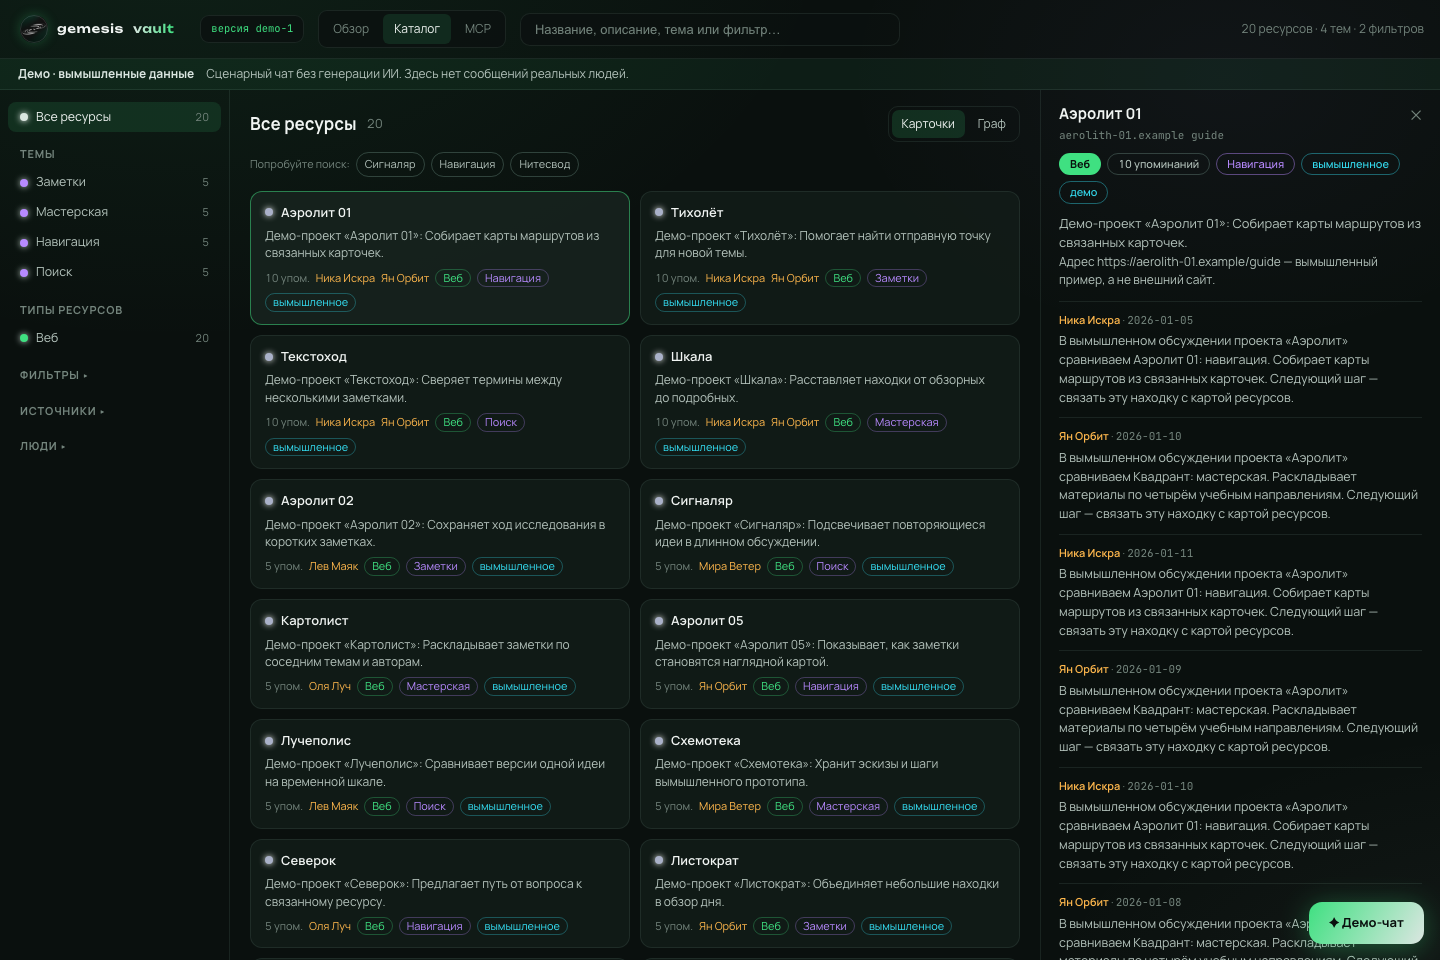
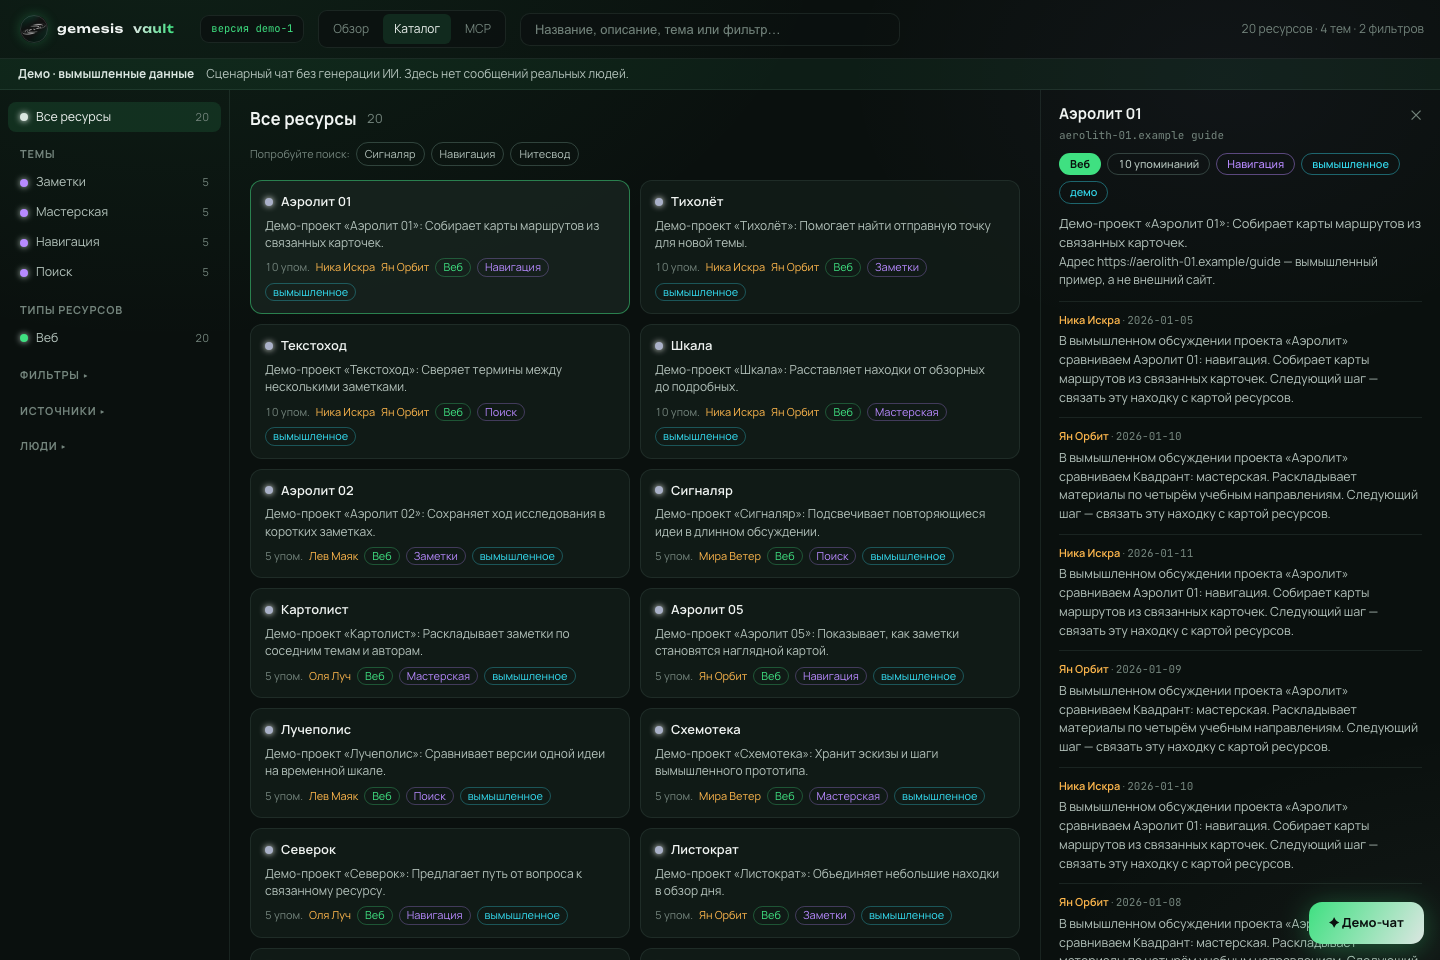
Keep only resource cards and explain full-product AI chat

diff --git a/app/src/styles.css b/app/src/styles.css
@@ -443,34 +443,9 @@ button.brand:active { transform: translateY(1px); }
 }
 .cards-head h1 { font-size: 17px; font-weight: 700; }
 .cards-head .count { color: var(--star-faint); font-size: 13px; font-variant-numeric: tabular-nums; }
-.catalog-view-switch { display: flex; gap: 3px; padding: 3px; margin-left: auto; border: 1px solid var(--line); border-radius: 10px; }
-.catalog-view-switch button { padding: 5px 10px; border: 0; border-radius: 7px; background: transparent; color: var(--star-dim); cursor: pointer; font-size: 12px; }
-.catalog-view-switch button[aria-pressed="true"] { color: var(--star); background: rgba(63, 224, 129, 0.15); }
-.catalog-view-switch button:focus-visible { outline: 2px solid var(--brand-c); outline-offset: 2px; }
 .catalog-examples { display: flex; flex-wrap: wrap; align-items: center; gap: 6px; padding: 0 20px 10px; color: var(--star-faint); font-size: 11px; }
 .catalog-examples button { padding: 3px 8px; border: 1px solid var(--line-strong); border-radius: 999px; background: transparent; color: var(--star-dim); cursor: pointer; font-size: 11px; }
 .catalog-examples button:hover, .catalog-examples button:focus-visible { color: var(--brand-c); border-color: var(--brand-c); }
-.graph-shell { flex: 1; min-height: 0; overflow-y: auto; padding: 8px 20px 60px; }
-.graph-caption, .graph-footnote, .graph-empty { color: var(--star-dim); font-size: 12px; line-height: 1.5; }
-.graph-caption { margin-bottom: 12px; }
-.graph-footnote { margin-top: 12px; }
-.graph-empty { padding: 30px 20px; }
-.graph-legend-hub, .graph-legend-resource { display: inline-block; vertical-align: middle; width: 9px; height: 9px; margin-inline: 4px; border-radius: 50%; }
-.graph-legend-hub { background: var(--pulse); }
-.graph-legend-resource { background: var(--brand-c); }
-.graph-scroll { overflow-x: auto; border: 1px solid var(--line); border-radius: 16px; background: radial-gradient(circle at 50% 40%, rgba(63,224,129,0.07), transparent 65%), var(--panel-2); }
-.graph-scroll:focus-visible { outline: 2px solid var(--brand-c); outline-offset: 2px; }
-.resource-graph { display: block; width: 100%; min-width: 720px; height: auto; }
-.graph-link-topic { stroke: rgba(183,138,255,0.34); stroke-width: 1.7; }
-.graph-link-cooccur { stroke: rgba(63,224,129,0.28); stroke-width: 1.3; stroke-dasharray: 5 6; }
-.graph-topic circle { fill: #231b30; stroke: var(--pulse); stroke-width: 1.5; }
-.graph-topic text { fill: #e9d7ff; font-size: 14px; font-weight: 600; }
-.graph-resource { cursor: pointer; }
-.graph-resource circle { fill: #123529; stroke: var(--brand-c); stroke-width: 2; transition: fill 150ms ease-out; }
-.graph-resource text { fill: var(--silver); font-size: 12px; font-weight: 600; }
-.graph-resource:hover circle, .graph-resource:focus-visible circle, .graph-resource.active circle { fill: var(--brand-c); }
-.graph-resource:focus-visible { outline: none; }
-.graph-resource:focus-visible text, .graph-resource.active text { fill: var(--brand-c); }
 .cards {
   flex: 1; overflow-y: auto; padding: 4px 20px 80px;
   display: grid; grid-template-columns: repeat(auto-fill, minmax(290px, 1fr));
@@ -845,11 +820,23 @@ button.chip { cursor: pointer; }
   .mcp-key-field { grid-template-columns: 1fr 1fr; }
   .mcp-key-field input { grid-column: 1 / -1; }
   .mcp-step { grid-template-columns: 28px minmax(0, 1fr); padding: 14px; }
-  .columns.graph-open:not(.detail-open) .sidebar { display: none; }
+  .columns { flex-direction: column; }
+  .sidebar {
+    display: flex; align-items: center; gap: 5px; width: 100%; height: 54px;
+    overflow-x: auto; overflow-y: hidden; padding: 5px 12px;
+    border-right: none; border-bottom: 1px solid var(--line);
+  }
+  .sidebar .nav-head:not(.toggle) { display: none; }
+  .sidebar .nav-item { width: auto; min-height: 40px; flex: none; white-space: nowrap; padding-inline: 10px; }
+  .sidebar .nav-head.toggle {
+    width: auto; min-height: 40px; flex: none; padding: 8px 10px;
+    white-space: nowrap; border: 1px solid var(--line); border-radius: 8px;
+  }
+  .cards-col { width: 100%; min-height: 0; }
+  .cards-head, .catalog-examples { padding-inline: 14px; }
+  .cards { grid-template-columns: minmax(0, 1fr); padding-inline: 14px; }
   .columns.detail-open .sidebar, .columns.detail-open .cards-col { display: none; }
-  .graph-shell { padding-inline: 10px; }
-  .catalog-examples { padding-inline: 10px; }
-  .columns.detail-open .rightcol { width: 100%; border-left: none; }
+  .columns.detail-open .rightcol { flex: 1; width: 100%; border-left: none; }
   .columns.detail-open .detail { padding: 18px 16px 80px; }
 }
 

diff --git a/app/src/App.tsx b/app/src/App.tsx
@@ -1,6 +1,5 @@
 import { useCallback, useEffect, useMemo, useRef, useState } from "react";
 import McpPage from "./McpPage";
-import GraphView from "./GraphView";
 import OverviewPage, { type WeeklyDigest } from "./OverviewPage";
 import UpdatesPanel, { type UpdateEntry } from "./UpdatesPanel";
 
@@ -301,7 +300,6 @@ function RichText({
 export default function App() {
   const [data, setData] = useState<{ nodes: GNode[]; links: GLink[] } | null>(null);
   const [collection, setCollection] = useState<Collection>({ type: "all" });
-  const [catalogMode, setCatalogMode] = useState<"cards" | "graph">("cards");
   const [query, setQuery] = useState("");
   const [selected, setSelected] = useState<GNode | null>(null);
   const [resourceDetail, setResourceDetail] = useState<ResourceDetail | null>(null);
@@ -644,9 +642,9 @@ export default function App() {
           onOpenResource={openDigestResource}
         />
       ) : view === "catalog" ? (
-      <div className={`columns${selected ? " detail-open" : ""}${catalogMode === "graph" ? " graph-open" : ""}`}>
+      <div className={`columns${selected ? " detail-open" : ""}`}>
         {/* ---------- сайдбар ---------- */}
-        <nav className="sidebar">
+        <nav className="sidebar" aria-label="Фильтры каталога">
           <button
             type="button"
             className={`nav-item${collection.type === "all" ? " active" : ""}`}
@@ -754,10 +752,6 @@ export default function App() {
           <div className="cards-head">
             <h1>{collTitle}</h1>
             <span className="count">{cards.length}</span>
-            <div className="catalog-view-switch" role="group" aria-label="Вид каталога">
-              <button type="button" aria-pressed={catalogMode === "cards"} onClick={() => setCatalogMode("cards")}>Карточки</button>
-              <button type="button" aria-pressed={catalogMode === "graph"} onClick={() => setCatalogMode("graph")}>Граф</button>
-            </div>
           </div>
           <div className="catalog-examples" aria-label="Примеры поиска">
             <span>Попробуйте поиск:</span>
@@ -765,7 +759,7 @@ export default function App() {
               <button key={example} type="button" aria-label={`Пример: ${example}`} onClick={() => setQuery(example)}>{example}</button>
             ))}
           </div>
-          {catalogMode === "cards" ? <div className="cards">
+          <div className="cards">
             {cards.map((n) => (
               <article
                 key={n.id}
@@ -821,8 +815,7 @@ export default function App() {
               </article>
             ))}
             {cards.length === 0 && <div className="empty">Ничего не найдено</div>}
-          </div> : <GraphView nodes={cards} links={data?.links ?? []} selectedId={selected?.id}
-            onOpen={(id) => { const node = resources.find((item) => item.id === id); if (node) selectNode(node); }} />}
+          </div>
         </main>
 
         {/* ---------- правая колонка: детали ресурса ---------- */}

diff --git a/app/tests/demo.spec.ts b/app/tests/demo.spec.ts
@@ -28,18 +28,23 @@ test("fictional catalogue, search, references and scripted chat work without ext
   expect(errors).toEqual([]);
 });
 
-test("interactive relationship graph opens a fictional resource", async ({ page }) => {
+test("catalogue has resource cards without the obsolete cards/graph view switch", async ({ page }) => {
   await page.goto("/");
   await page.getByRole("navigation", { name: "Разделы Vault" }).getByRole("button", { name: "Каталог" }).click();
-  await page.getByRole("button", { name: "Граф", exact: true }).click();
-  const graph = page.locator(".resource-graph");
-  await expect(graph).toBeVisible();
-  await expect(graph.locator("[data-resource-node]")).toHaveCount(20);
-  expect(await graph.locator(".graph-link-topic").count()).toBeGreaterThan(0);
-  await graph.getByRole("button", { name: "Открыть Аэролит 01" }).click();
+  await expect(page.locator(".card-open")).toHaveCount(20);
+  await expect(page.locator(".catalog-view-switch")).toHaveCount(0);
+  await expect(page.getByRole("button", { name: "Граф", exact: true })).toHaveCount(0);
+  await expect(page.getByRole("button", { name: "Карточки", exact: true })).toHaveCount(0);
+  await expect(page.locator(".resource-graph")).toHaveCount(0);
+  if (page.viewportSize()!.width <= 640) {
+    const card = await page.locator(".card").first().boundingBox();
+    expect(card).not.toBeNull();
+    expect(card!.x + card!.width).toBeLessThanOrEqual(page.viewportSize()!.width);
+    expect(card!.width).toBeGreaterThan(page.viewportSize()!.width * 0.8);
+  }
+  await page.locator(".card-open").first().click();
   await expect(page.locator(".detail")).toContainText("Аэролит 01");
-  const overflow = await page.evaluate(() => document.documentElement.scrollWidth > innerWidth);
-  expect(overflow).toBe(false);
+  expect(await page.evaluate(() => document.documentElement.scrollWidth > innerWidth)).toBe(false);
 });
 
 test("MCP setup describes only public read-only access", async ({ page, request }) => {

diff --git a/scripts/check_history.py b/scripts/check_history.py
@@ -6,6 +6,9 @@ import subprocess
 
 from scripts.check_public_artifact import EXACT, FORBIDDEN, PREFIXES, SCREENSHOTS, private_name, valid_screenshot
 
+# The already-published demo history contains a reviewed screenshot of the retired view.
+HISTORICAL_SCREENSHOTS = SCREENSHOTS | {"screenshots/graph.png"}
+
 
 def check_history(root: Path) -> list[tuple[str, str, str]]:
     problems: list[tuple[str, str, str]] = []
@@ -15,7 +18,7 @@ def check_history(root: Path) -> list[tuple[str, str, str]]:
         paths = subprocess.check_output(["git", "ls-tree", "-rz", "--name-only", commit], cwd=root).split(b"\0")
         for item in filter(None, paths):
             path = item.decode("utf-8")
-            if path not in EXACT and not path.startswith(PREFIXES):
+            if path not in EXACT and path not in HISTORICAL_SCREENSHOTS and not path.startswith(PREFIXES):
                 problems.append((short, path, "not-allowlisted"))
             if private_name(Path(path)):
                 problems.append((short, path, "private-name"))
@@ -25,7 +28,7 @@ def check_history(root: Path) -> list[tuple[str, str, str]]:
                 continue
             if path == "app/public/gemesislogo.jpg":
                 continue
-            if path in SCREENSHOTS:
+            if path in HISTORICAL_SCREENSHOTS:
                 if not valid_screenshot(contents):
                     problems.append((short, path, "screenshot-format-or-metadata"))
                 continue

diff --git a/tests/test_portfolio_docs.py b/tests/test_portfolio_docs.py
@@ -3,7 +3,7 @@ import unittest
 from pathlib import Path
 
 ROOT = Path(__file__).resolve().parents[1]
-SHOTS = ("overview", "catalog", "graph", "chat")
+SHOTS = ("overview", "catalog", "chat")
 
 
 class PortfolioDocsTests(unittest.TestCase):
@@ -18,10 +18,14 @@ class PortfolioDocsTests(unittest.TestCase):
                 self.assertTrue(f"screenshots/{shot}.png" in text, f"missing screenshot reference: {shot}")
                 self.assertTrue((ROOT / f"screenshots/{shot}.png").is_file())
         self.assertNotIn("gemesis-vault" + ".duckdns.org", text)
+        self.assertNotIn("screenshots/graph.png", text)
+        self.assertNotIn("граф", text.casefold())
+        self.assertIn("ИИ-чат", text)
+        self.assertIn("AI chat", text)
         self.assertIn("https://gemesis-vault-demo.onrender.com/", text)
         self.assertIn("https://gemesis-vault-demo.onrender.com/mcp", text)
 
-    def test_only_four_reviewed_pngs_and_no_embedded_image_metadata(self):
+    def test_only_three_reviewed_pngs_and_no_embedded_image_metadata(self):
         self.assertEqual({path.name for path in (ROOT / "screenshots").iterdir()},
                          {f"{shot}.png" for shot in SHOTS})
         from scripts.check_public_artifact import valid_screenshot

diff --git a/tests/test_ui_contract.py b/tests/test_ui_contract.py
@@ -14,6 +14,8 @@ class UiContractTests(unittest.TestCase):
         self.assertIn("Сценарный чат", source)
         self.assertNotIn("/api/chat/feedback", source)
         self.assertNotIn("Telegram", source)
+        self.assertTrue("GraphView" not in source, "obsolete graph component remains")
+        self.assertTrue("catalogMode" not in source, "obsolete view switch remains")
         self.assertNotIn("Ассистент группы", source)
         self.assertNotIn("истории группы", source)
         self.assertNotIn("/admin", source)

diff --git a/scripts/check_public_artifact.py b/scripts/check_public_artifact.py
@@ -6,7 +6,7 @@ from pathlib import Path
 import subprocess
 import zlib
 
-SCREENSHOTS = {f"screenshots/{name}.png" for name in ("overview", "catalog", "graph", "chat")}
+SCREENSHOTS = {f"screenshots/{name}.png" for name in ("overview", "catalog", "chat")}
 EXACT = {
     ".gitignore", ".dockerignore", "Dockerfile", "README.md", "render.yaml",
     "requirements-demo.txt", ".github/workflows/checks.yml",

diff --git a/README.md b/README.md
@@ -1,12 +1,12 @@
 # Gemesis Vault — карта знаний / knowledge map
 
-**Интерактивное публичное демо:** превращает сообщения и ссылки в каталог ресурсов, сводку и граф связей. Можно искать, открывать упоминания, исследовать граф и подключить MCP. **Все данные вымышлены.**
+**Интерактивное публичное демо:** превращает сообщения и ссылки в каталог ресурсов и сводку. Можно искать, фильтровать карточки, открывать упоминания и подключить MCP. **Все данные вымышлены.**
 
-**Interactive public demo:** explore a knowledge catalogue, weekly digest, resource graph, searchable mentions and read-only MCP. **Every person, message and resource is fictional.**
+**Interactive public demo:** explore a knowledge catalogue, weekly digest, resource cards, searchable mentions and read-only MCP. **Every person, message and resource is fictional.**
 
 **[Открыть демо / Open the live demo ↗](https://gemesis-vault-demo.onrender.com/)** · Render Free: после простоя запуск может занять около минуты / waking after inactivity may take about a minute.
 
-> **Демо · вымышленные данные / Fictional data only.** Это отдельное приложение, не подключённое к закрытому Gemesis Vault, рабочей базе или VPS. Чат показывает **сценарные ответы без генерации ИИ / scripted replies, not AI**. У демо нет админки, записи, регистрации или настоящих внешних ссылок: адреса `.example` — только примеры.
+> **Полная версия / Full product:** ИИ-чат генерирует ответы на вопросы по базе знаний / an AI chat generates answers using the knowledge base. **Публичное демо / Public demo:** отдельное приложение с вымышленными данными и **сценарным чатом без генерации ИИ / scripted replies, no AI calls**. Оно не подключено к закрытой базе или VPS. Здесь нет админки, записи, регистрации или настоящих внешних ссылок: адреса `.example` — только примеры.
 
 ## Что можно попробовать / Explore
 
@@ -14,7 +14,6 @@
 | --- | --- |
 | **Обзор / Digest** | Сводка за фиксированную демонстрационную неделю: 100 сообщений, 20 ресурсов, 5 вымышленных авторов. / A fixed fictional week with trends and discoveries. |
 | **Каталог / Catalogue** | Поиск по названиям и описаниям, фильтры по темам и авторам, карточки с контекстом упоминаний. / Search and filter resources, then open their mention history. |
-| **Граф / Graph** | Интерактивные связи ресурсов с темами и друг с другом; узел открывает карточку. / Explore topic and co-mention edges; click a node for details. |
 | **MCP + FTS5** | Пять реальных read-only инструментов, включая полнотекстовый поиск по вымышленным сообщениям. / Five working read-only tools, including message full-text search. |
 | **Демо-чат / Scripted chat** | Подготовленные ответы на три темы со ссылками на карточки; другие вопросы получают честную подсказку. / Three scripted topics with citations and an explicit fallback. |
 
@@ -26,9 +25,9 @@
 | --- | --- |
 | [![Сводка Gemesis с вымышленными данными / Fictional weekly digest](screenshots/overview.png)](screenshots/overview.png) | [![Каталог и карточка вымышленного ресурса / Fictional resource catalogue](screenshots/catalog.png)](screenshots/catalog.png) |
 
-| Граф связей / Relationship graph | Сценарный чат / Scripted chat |
-| --- | --- |
-| [![Граф тем и вымышленных ресурсов / Graph of fictional topics and resources](screenshots/graph.png)](screenshots/graph.png) | [![Явно обозначенный сценарный ответ / Clearly labeled scripted reply](screenshots/chat.png)](screenshots/chat.png) |
+**Сценарный чат / Scripted chat** — ответы помечены как подготовленные, а ссылки открывают вымышленные карточки. / Replies are clearly marked as scripted and cite fictional resource cards.
+
+<a href="screenshots/chat.png"><img src="screenshots/chat.png" width="720" alt="Явно обозначенный сценарный ответ / Clearly labeled scripted reply"></a>
 
 ## Как устроено / Architecture
 
@@ -39,7 +38,7 @@
                  ↓
    FastAPI (allowlisted HTTP + MCP)
          ↙                       ↘
- React/Vite: обзор, каталог, граф    5 read-only MCP tools
+ React/Vite: обзор, каталог          5 read-only MCP tools
          ↖                       ↙
     Сценарный чат / scripted responses
 ```
@@ -48,7 +47,7 @@
 - `demo/app.py` выдаёт только каталог, ресурс, сводку, обновления, демо-чат и MCP. Пользовательские запросы открывают SQLite в режиме **read-only**; никаких Telegram-сессий, внешней синхронизации или рабочей инфраструктуры.
 - `app/src/` — React-интерфейс. `Dockerfile` собирает фронтенд и запускает FastAPI непривилегированным пользователем; `.dockerignore` закрыт по умолчанию. `render.yaml` описывает ровно один **Render Free** web service без постоянного диска.
 
-**EN:** The seed produces the same ephemeral SQLite/FTS5 corpus on every boot. FastAPI serves an allowlisted HTTP API and five read-only MCP tools; React renders the catalogue, graph and digest. The Docker runtime contains only reviewed demo files. There is no connection to production, persistent user data or paid AI.
+**EN:** The seed produces the same ephemeral SQLite/FTS5 corpus on every boot. FastAPI serves an allowlisted HTTP API and five read-only MCP tools; React renders the catalogue and digest. The Docker runtime contains only reviewed demo files. There is no connection to production, persistent user data or paid AI in this public demo.
 
 ## Запуск / Run locally
 
